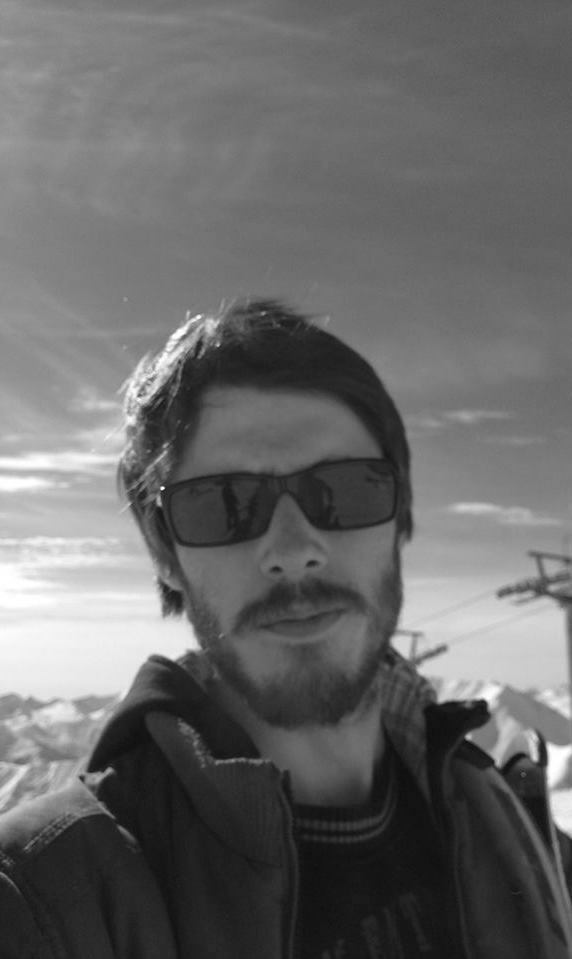
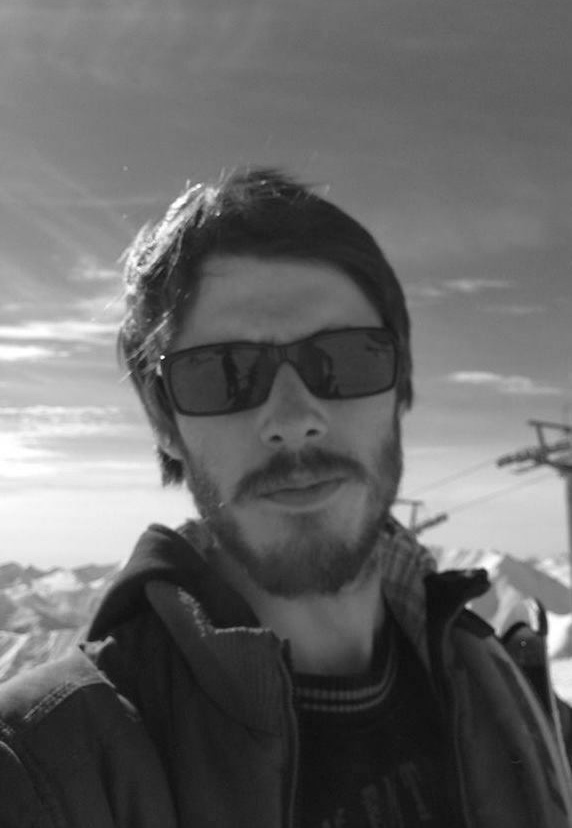
change photo

diff --git a/css/style.css b/css/style.css
@@ -6,7 +6,13 @@ License URL: http://creativecommons.org/licenses/by/3.0/
 */
 /* reset */
 
-@import url(http://fonts.googleapis.com/css?family=Patua+One);
+@font-face {
+  font-family: 'Patua One';
+  font-style: normal;
+  font-weight: 400;
+  src: local('Patua One'), local('PatuaOne-Regular'), url(http://fonts.gstatic.com/s/patuaone/v6/yAXhog6uK3bd3OwBILv_SJBw1xU1rKptJj_0jans920.woff2) format('woff2');
+  unicode-range: U+0000-00FF, U+0131, U+0152-0153, U+02C6, U+02DA, U+02DC, U+2000-206F, U+2074, U+20AC, U+2212, U+2215, U+E0FF, U+EFFD, U+F000;
+}
 
 html,body,div,span,applet,object,iframe,h1,h2,h3,h4,h5,h6,p,blockquote,pre,a,abbr,acronym,address,big,cite,code,del,dfn,em,img,ins,kbd,q,s,samp,small,strike,strong,sub,sup,tt,var,b,u,i,dl,dt,dd,ol,nav ul,nav li,fieldset,form,label,legend,table,caption,tbody,tfoot,thead,tr,th,td,article,aside,canvas,details,embed,figure,figcaption,footer,header,hgroup,menu,nav,output,ruby,section,summary,time,mark,audio,video{margin:0;padding:0;border:0;font-size:100%;font:inherit;vertical-align:baseline;}
 article, aside, details, figcaption, figure,footer, header, hgroup, menu, nav, section {display: block;}
@@ -65,7 +71,7 @@ body {
 	-webkit-box-sizing: border-box; /* Safari/Chrome, other WebKit */
 	-moz-box-sizing: border-box;    /* Firefox, other Gecko */
 	box-sizing: border-box;         /* Opera/IE 8+ */
-	padding: 2% 1%;
+	padding: 4% 0;
 }
 /*------- Skills rings-------*/
 .heading
@@ -77,6 +83,8 @@ body {
 	text-transform: uppercase;
 	text-align: center;
 	padding-bottom: 10px;
+	font-family: 'Patua One', cursive;
+    letter-spacing: 1px;
 }
 .para
 {
@@ -689,7 +697,8 @@ textarea
 	height: 20px;
 	}
 	.soc_icons ul li a.icon1 {
-	background: #39579D url('../images/icon1.png') no-repeat 16px 9px;
+	background: url('../images/skype2.png') no-repeat;
+	background-size: 100%;
 	}
 	.soc_icons ul li a.icon2 {
 	background: #02B3E9 url('../images/icon2.png') no-repeat 11px 12px;

diff --git a/index.html b/index.html
@@ -442,7 +442,7 @@
 							<div class="item" >
 								<div class="carousel">
 							  	    <div class="group_3_img me-photo">
-										<img src="images/me-5.jpg">
+										<img src="images/me-1.jpg">
 									</div>
 									<div class="group_1_text group_3_text">
 										<h3 style="color: #FFF;"> Givi Kuchukhidze </h3>
@@ -496,11 +496,10 @@
 					<h4>I AM SOCIAL</h4>
 					<ul>
 					<li><a class="icon4" href="https://www.linkedin.com/in/givik"><span>Linkedin</span></a></li>
-					<li><a class="icon3" href="https://github.com/givik"><span>Github</span></a></li>
-					<li><a class="icon1" href="https://www.facebook.com/givikuchukhidze"> <span>Facebook</span> </a>  </li>
 					<li><a class="icon2" href="https://twitter.com/givikk"><span>Twitter</span></a></li>
-					
 					<li><a class="icon5" href="./images/wechat.png"><span>Wechat</span></a></li>
+					<li><a class="icon1" href="skype:givi.kuchukhidze?chat"> <span>Skype</span> </a>  </li>
+					<li><a class="icon3" href="https://github.com/givik"><span>Github</span></a></li>
 					<div class="clear"> </div>
 				</ul>
 					</div>
